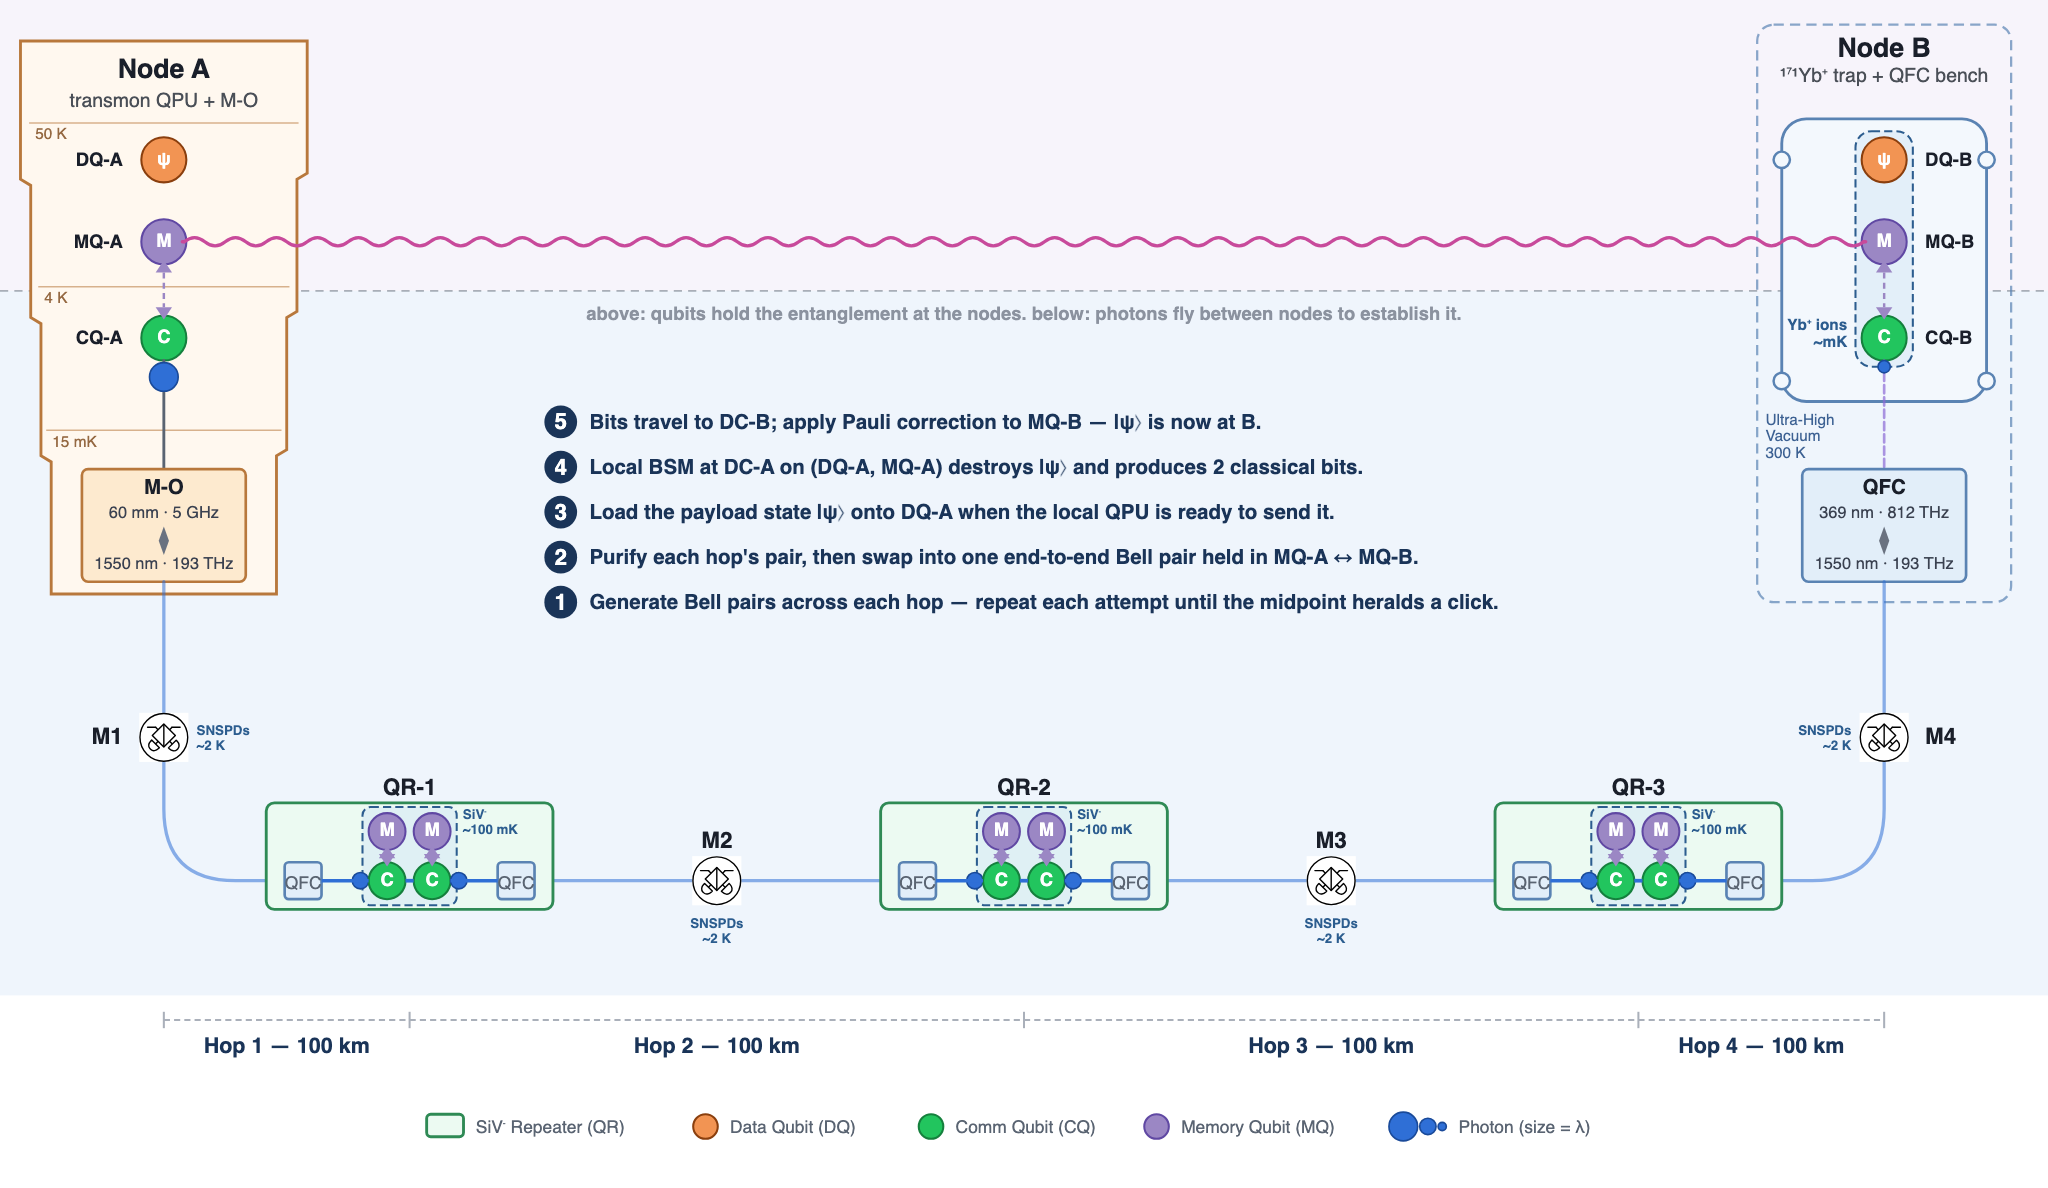
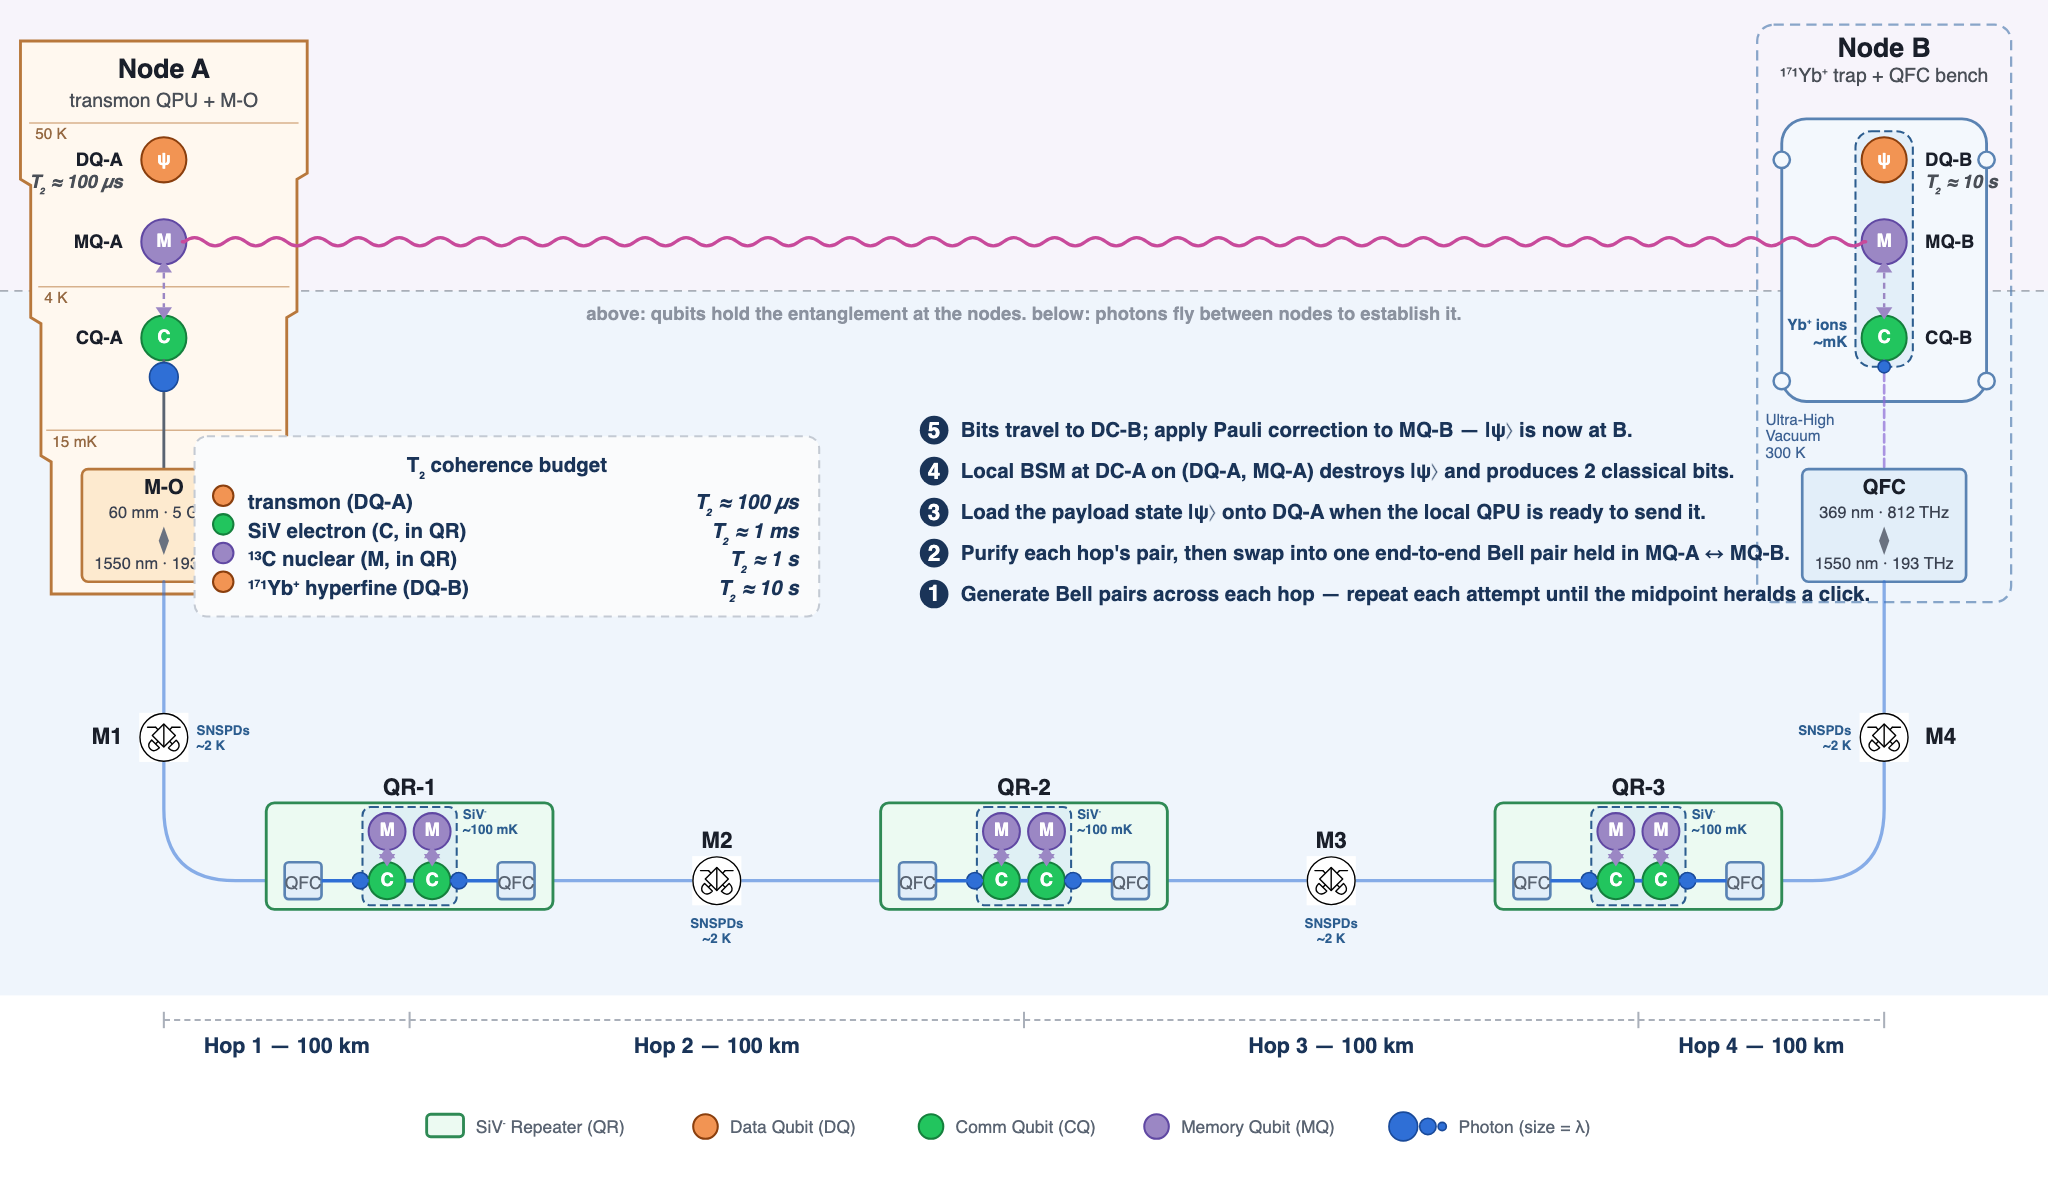
4hop-topology: add T₂ coherence-budget panel + endpoint T₂ chips
Make qubit lifetime an explicit element of the figure.

- Inset panel beside the 5-step block: 'T₂ coherence budget' lists the
  four qubit roles on the figure (transmon DQ, SiV electron C, ¹³C
  nuclear M, ¹⁷¹Yb⁺ hyperfine DQ) with representative T₂ values from
  the survey literature (Lauk QST 2020, Bradley PRX 2019, Knaut 2024,
  Brown PRA 2018). Tells the orders-of-magnitude story µs→ms→s→10s.
- Inline T₂ chips below DQ-A and DQ-B side labels: 100 µs and 10 s.
  Endpoint coherence delta is the first thing a procurement reader
  should see; the panel handles the per-role detail.
- Shift the 5-step block right (centre x 500 → 660), shrink to 9 pt
  with badge 7 pt, to clear the panel without escaping the canvas.

Re-renders the SVG and the 2K PNG.

diff --git a/scripts/diagrams/topology_4hop.py b/scripts/diagrams/topology_4hop.py
@@ -174,6 +174,7 @@ def build() -> Canvas:
     _hop_brackets(cv)
     _entanglement_overlay(cv)
     _protocol_steps(cv)
+    _lifetime_panel(cv)
     _legend(cv)
     return cv
 
@@ -252,6 +253,17 @@ def _node_A(cv: Canvas) -> None:
 
     # SWAP between MQ and CQ
     C.swap_arrow(cv, NODE_A_CX, Y_MQ + 11, Y_CQ - 11)
+
+    # T₂ chip beside DQ-A — Node A side labels are anchored end at
+    # x = cx - 20, so the chip sits at the same x, italic 8 pt, one line
+    # below the side label. Tells the reader the *endpoint* coherence
+    # without sending them to the panel.
+    cv.text(
+        NODE_A_CX - 20, Y_DQ + 14, "T₂ ≈ 100 µs",
+        cls="qbit-side", font_size=8, anchor="end",
+        style="font-style: italic; fill: #4a4f57",
+        name="DQ-A-t2",
+    )
 
     # CQ-A microwave link to M-O
     cv.line(
@@ -364,6 +376,15 @@ def _node_B(cv: Canvas) -> None:
         ],
     )
     C.swap_arrow(cv, NODE_B_CX, Y_MQ + 11, Y_CQ - 11)
+
+    # T₂ chip beside DQ-B — Node B side labels anchored start at
+    # x = cx + 20, so chip sits at same x, italic 8 pt, below the label.
+    cv.text(
+        NODE_B_CX + 20, Y_DQ + 14, "T₂ ≈ 10 s",
+        cls="qbit-side", font_size=8, anchor="start",
+        style="font-style: italic; fill: #4a4f57",
+        name="DQ-B-t2",
+    )
 
     # UV link from CQ-B (via chamber viewport) to the QFC bench below
     cv.line(
@@ -541,32 +562,82 @@ def _protocol_steps(cv: Canvas) -> None:
         "Local BSM at DC-A on (DQ-A, MQ-A) destroys |ψ⟩ and produces 2 classical bits.",
         "Bits travel to DC-B; apply Pauli correction to MQ-B — |ψ⟩ is now at B.",
     ]
-    badge_r = 8
+    badge_r = 7
     gap = 6
-    font_size = 10
-    row_gap = 22
+    font_size = 9
+    row_gap = 20
+    # Shift the block RIGHT of canvas centre so the T₂ coherence-budget
+    # inset panel can sit to its left without overlap. centre_y picks the
+    # vertical band a bit higher to leave breathing room below the dashed
+    # matter-photon interface line.
+    centre_x = 660
+    centre_y = 250
     # Width heuristic — the rendered prose is narrower than the svglib
     # collision-bbox default (0.55), so an over-estimated width pulls the
     # badge column too far LEFT and the block looks left-lopsided.
     # 0.48 matches the actual render of the longest line (step 1) so the
-    # block visually centres on x=W/2.
+    # block visually centres on centre_x.
     text_w = lambda s: 0.48 * font_size * len(s)
     block_w = badge_r * 2 + gap + max(text_w(c) for c in captions)
-    badge_x = (W - block_w) / 2 + badge_r        # left-aligned column
+    badge_x = centre_x - block_w / 2 + badge_r   # left-aligned column
     text_x = badge_x + badge_r + gap
-    # Shift the block up — centre vertically a bit higher in the band so
-    # there's more breathing room below the dashed interface line.
-    centre_y = 250
     n = len(captions)
     block_h = row_gap * (n - 1)
     top_y = centre_y - block_h / 2
     for i, txt in enumerate(captions, start=1):
         y = top_y + (n - i) * row_gap   # step 1 at bottom, step 5 at top
         cv.circle(badge_x, y, badge_r, cls="step-num-bg", name=f"step{i}-badge")
-        cv.text(badge_x, y, str(i), cls="step-num", font_size=11, name=f"step{i}-num")
+        cv.text(badge_x, y, str(i), cls="step-num", font_size=10, name=f"step{i}-num")
         cv.text(text_x, y, txt,
                 cls="step-txt", font_size=font_size, anchor="start",
                 name=f"step{i}-txt")
+
+
+def _lifetime_panel(cv: Canvas) -> None:
+    """T₂ coherence-budget inset. Sits to the LEFT of the 5-step block in
+    the matter-band, telling the orders-of-magnitude story (µs → 10 s) for
+    the four qubit roles in the figure. Same span as the step block so the
+    two sit as a balanced pair, with the steps on the right answering
+    "what happens" and the panel on the left answering "how much time
+    each qubit has to do its job".
+
+    Numbers are representative ranges drawn from Lauk QST 2020, Bradley
+    PRX 2019 (¹³C nuclear memory), Knaut Nature 2024 (SiV electron), and
+    Brown PRA 2018 (¹⁷¹Yb⁺ hyperfine). Not platform-leading records — the
+    typical operating numbers that fit a procurement-grade conversation."""
+    px, py, pw, ph = 95, 213, 305, 88
+    cv.rect(
+        px, py, pw, ph, rx=6,
+        style="fill: #fafbfc; stroke: #c4cad3; stroke-width: 1; stroke-dasharray: 4 3",
+        name="lifetime-panel-bg",
+    )
+    cv.text(
+        px + pw / 2, py + 14, "T₂ coherence budget",
+        cls="step-txt", font_size=10.5, anchor="middle",
+        style="font-weight: 700",
+        name="lifetime-panel-ttl",
+    )
+    rows = [
+        ("data",   "transmon (DQ-A)",         "100 µs"),
+        ("comm",   "SiV electron (C, in QR)", "1 ms"),
+        ("memory", "¹³C nuclear (M, in QR)",  "1 s"),
+        ("data",   "¹⁷¹Yb⁺ hyperfine (DQ-B)", "10 s"),
+    ]
+    y0, dy = py + 32, 14
+    for i, (role, label, value) in enumerate(rows):
+        y = y0 + i * dy
+        cv.circle(px + 14, y - 3, 5, cls=role, name=f"lt-sw-{i}")
+        cv.text(
+            px + 26, y, label,
+            cls="step-txt", font_size=9.5, anchor="start",
+            name=f"lt-lbl-{i}",
+        )
+        cv.text(
+            px + pw - 10, y, f"T₂ ≈ {value}",
+            cls="step-txt", font_size=9.5, anchor="end",
+            style="font-style: italic",
+            name=f"lt-val-{i}",
+        )
 
 
 def _entanglement_overlay(cv: Canvas) -> None:
